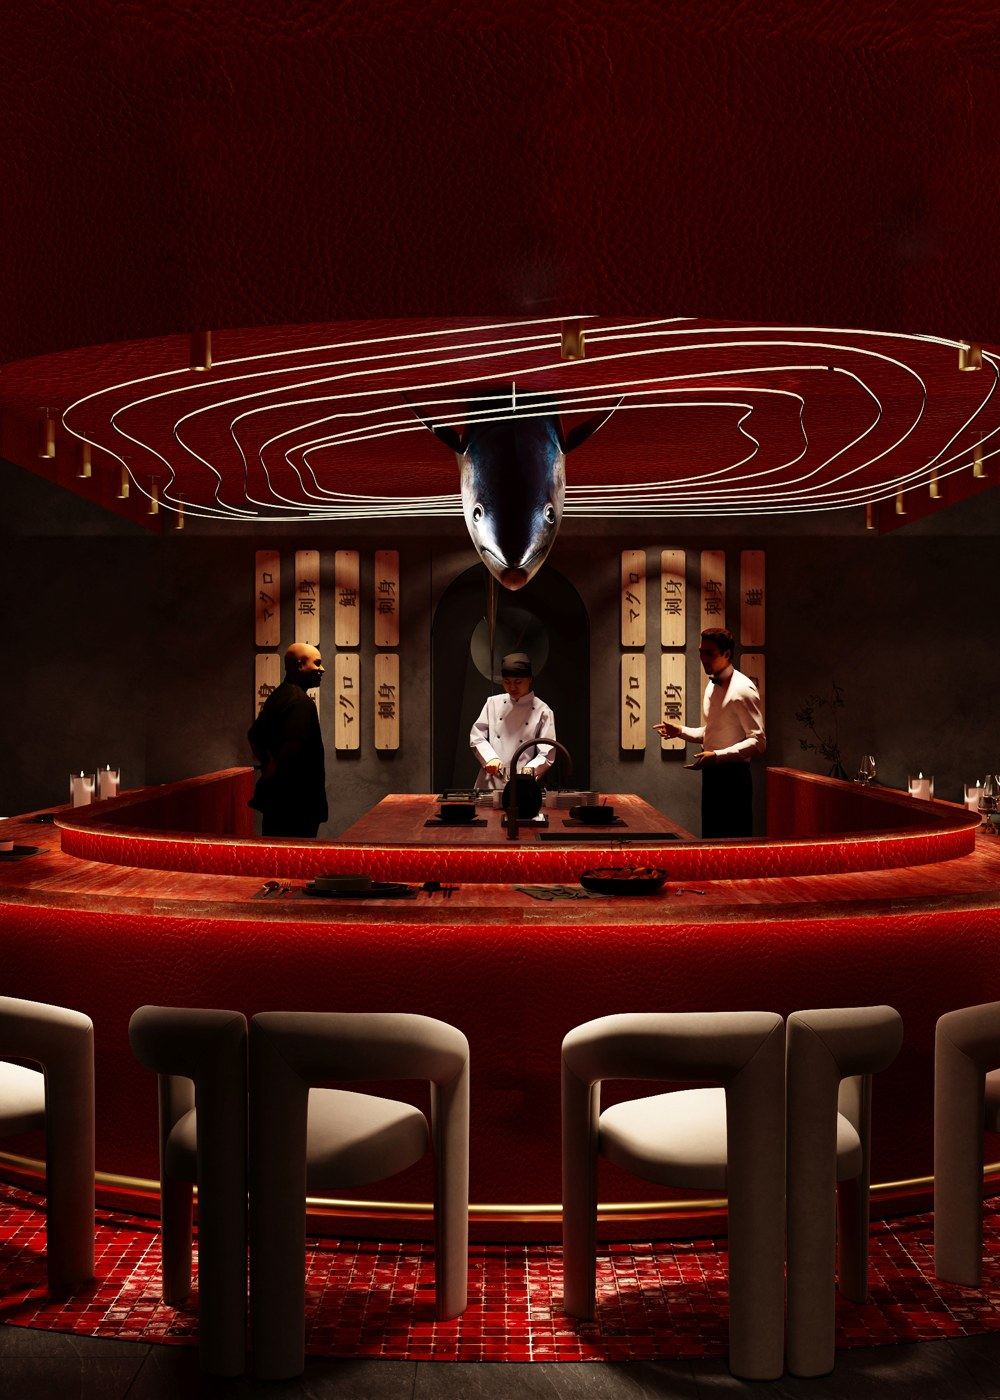
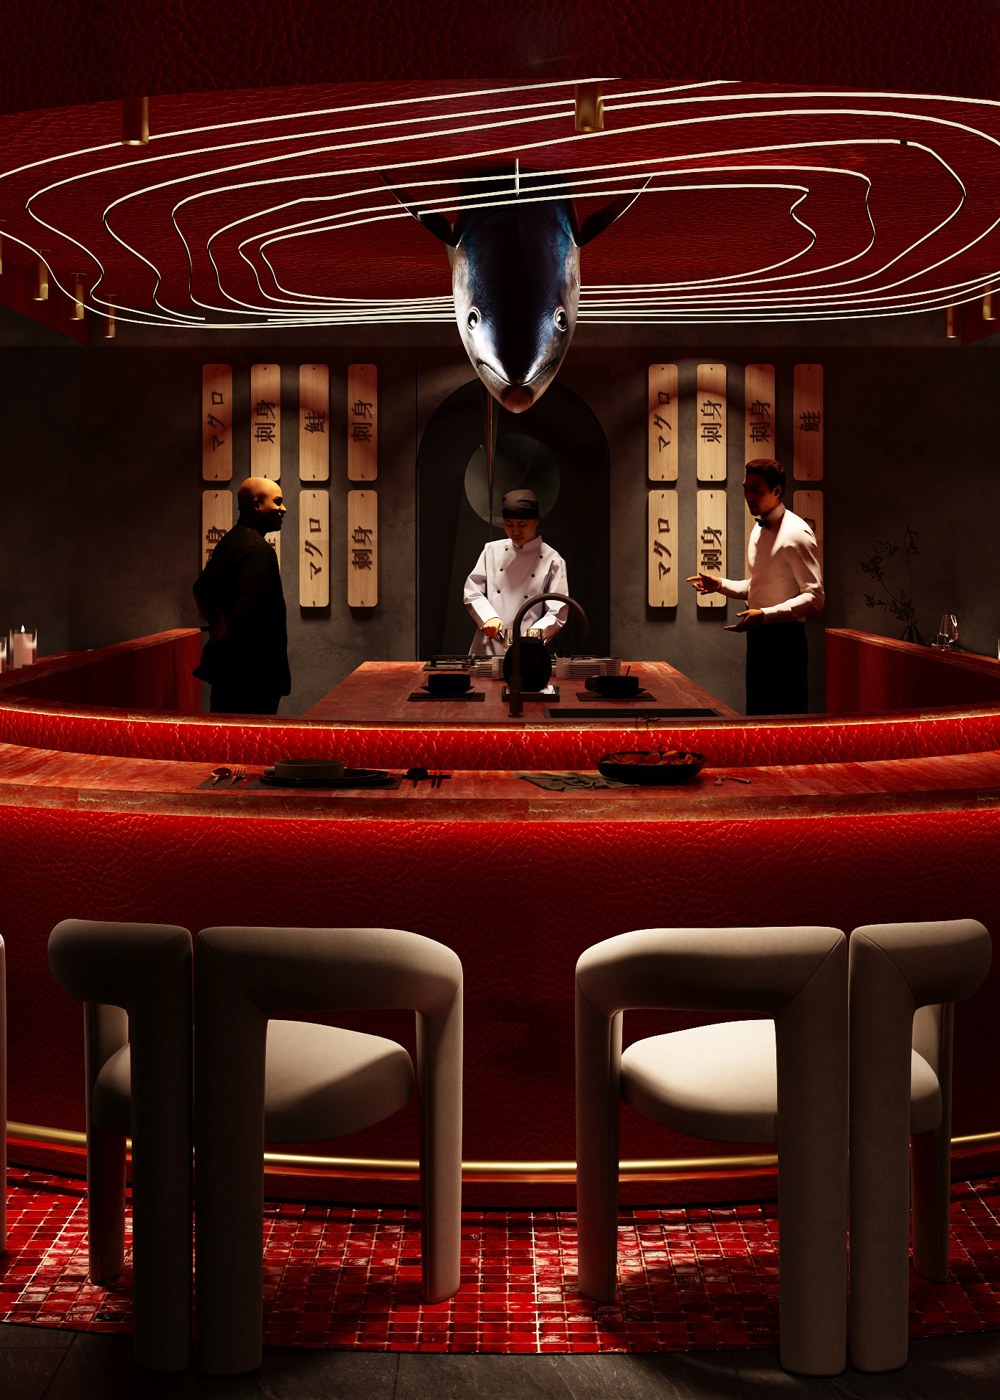
Interior Design & MEP: approvals image = TFC Yoga_2 render; Omakase render cropped 18% lower (less red ceiling); Mahojer drawing re-rendered at 600 dpi as smooth PNG; block images quality 90 + 1400w

diff --git a/src/data/services.ts b/src/data/services.ts
@@ -87,7 +87,7 @@ export const services: Service[] = [
         'Weekly reports on progress, approvals and costs',
       ]],
     ],
-    deliverImages: ['svc-imd-design-omakase25.jpg', 'svc-mep-drainage-mahojer.jpg', 'turnkey.jpg'], // PM = former approvals photo (owner) // MEP = HVAC ducting drawing, Roasters Science Park GF
+    deliverImages: ['svc-imd-design-omakase25.jpg', 'svc-mep-drainage-mahojer.png', 'turnkey.jpg'], // PM = former approvals photo (owner) // MEP = HVAC ducting drawing, Roasters Science Park GF
     deliverParas: [[
       'Every design project follows the same sequence. We start with the brief, a site survey and the landlord fit-out guide, develop the <strong>concept and 3D visuals</strong> until you approve the direction, and sign off the <strong>material samples</strong>.',
       'Next comes the <strong>detailed design</strong>: the full drawing set, joinery details and MEP calculations, coordinated between interior and engineering. We prepare the <strong>authority submissions</strong>, answer every comment until approval and hand over a <strong>BOQ for tender</strong> — or build it ourselves.',
@@ -99,7 +99,7 @@ export const services: Service[] = [
       'Already have a design and a contractor? We can step in as your <strong>project manager</strong> — we have also taken over projects after previous contractors could not finish them or obtain approvals.',
     ]],
     approvalsBlock: {
-      image: 'svc-imd-approvals-1941.jpg', // neutral: drawings and material samples on the table
+      image: 'svc-imd-approvals-tfc-yoga.jpg', // owner: TFC Yoga_2 render
       paras: [
         'Every fit-out in Dubai needs two sets of approvals: the <strong>landlord NOC</strong> from the developer or mall, and <strong>authority permits</strong> from Dubai Municipality, Dubai Civil Defence and DEWA.',
         'We prepare the submission drawings and calculations, submit them, answer every comment and attend the inspections — so approvals are part of the schedule, not a delay.',
